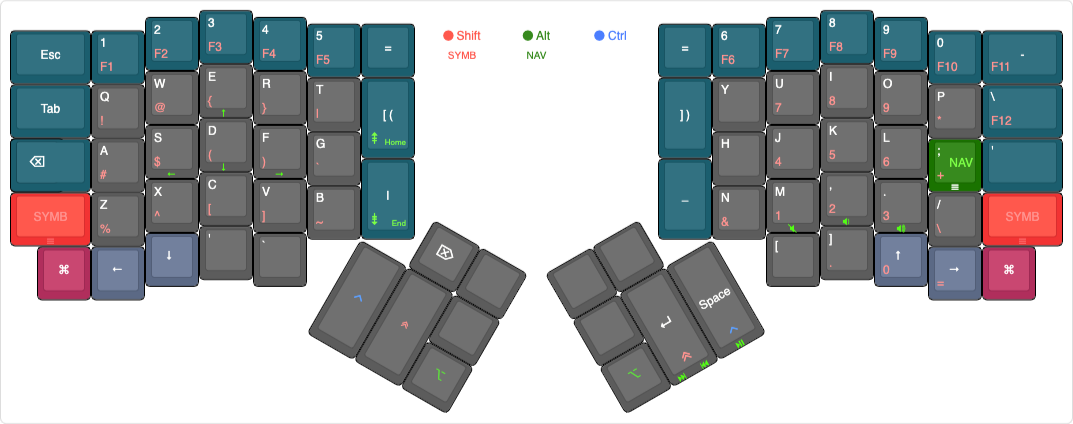
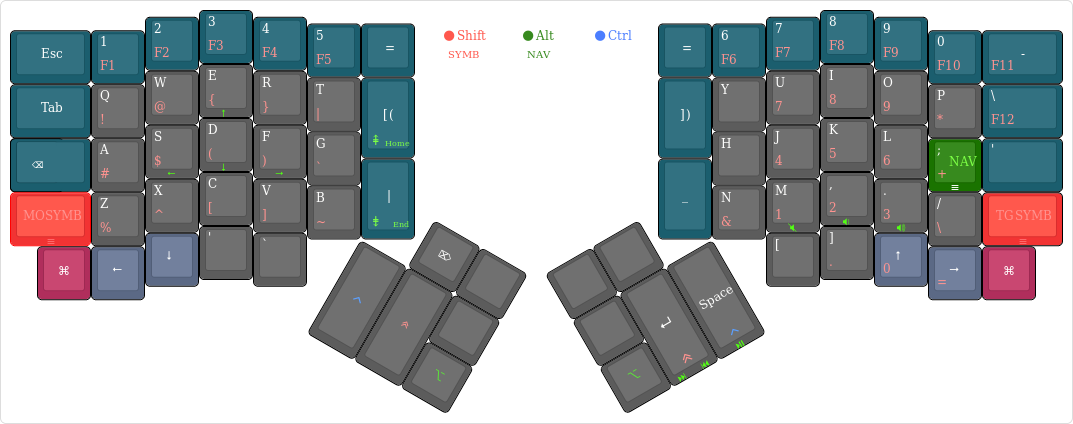
Use TG for toggling to layer 1 in one of the keys

diff --git a/keymap.c b/keymap.c
@@ -49,7 +49,7 @@ const uint16_t PROGMEM keymaps[][MATRIX_ROWS][MATRIX_COLS] = {
  * |--------+------+------+------+------+------|      |           |      |------+------+------+------+------+--------|
  * |  Bksp  |   A  |   S  |   D  |   F  |   G  |------|           |------|   H  |   J  |   K  |   L  | ;/L2 |   '"   |
  * |--------+------+------+------+------+------|  |   |           |  _   |------+------+------+------+------+--------|
- * |  MO L1 |   Z  |   X  |   C  |   V  |   B  |      |           |      |   N  |   M  |   ,  |   .  |   /  | MO L1  |
+ * |  MO L1 |   Z  |   X  |   C  |   V  |   B  |      |           |      |   N  |   M  |   ,  |   .  |   /  | TG L1  |
  * `--------+------+------+------+------+-------------'           `-------------+------+------+------+------+--------'
  *   | LGUI | Left | Down |  '"  |  `~  |                                       |   [  |   ]  |  Up  | Right| LGUI |
  *   `----------------------------------'                                       `----------------------------------'
@@ -70,14 +70,14 @@ const uint16_t PROGMEM keymaps[][MATRIX_ROWS][MATRIX_COLS] = {
         KC_LGUI,  KC_LEFT, KC_DOWN, KC_QUOT, KC_GRV,
                                                   KC_DELT, KC_TRNS,
                                                            KC_TRNS,
-                             OSM(MOD_LCTL), OSM(MOD_LSFT), OSM(MOD_LALT),
+                       OSM(MOD_LCTL), OSM(MOD_LSFT), OSM(MOD_LALT),
         // right hand
         KC_EQL,     KC_6, KC_7,    KC_8,    KC_9,    KC_0,             KC_MINS,
         TD(TD_RCP), KC_Y, KC_U,    KC_I,    KC_O,    KC_P,             KC_BSLS,
                     KC_H, KC_J,    KC_K,    KC_L,    LT(NAV, KC_SCLN), KC_QUOT,
-        KC_UNDS,    KC_N, KC_M,    KC_COMM, KC_DOT,  KC_SLSH,          MO(SYMB),
+        KC_UNDS,    KC_N, KC_M,    KC_COMM, KC_DOT,  KC_SLSH,          TG(SYMB),
                           KC_LBRC, KC_RBRC, KC_UP,   KC_RGHT,          KC_LGUI,
-        KC_TRNS, KC_LEAD,
+        KC_TRNS, KC_TRNS,
         KC_TRNS,
         OSM(MOD_LALT), LSFT_T(KC_ENTER), LCTL_T(KC_SPC)
     ),
